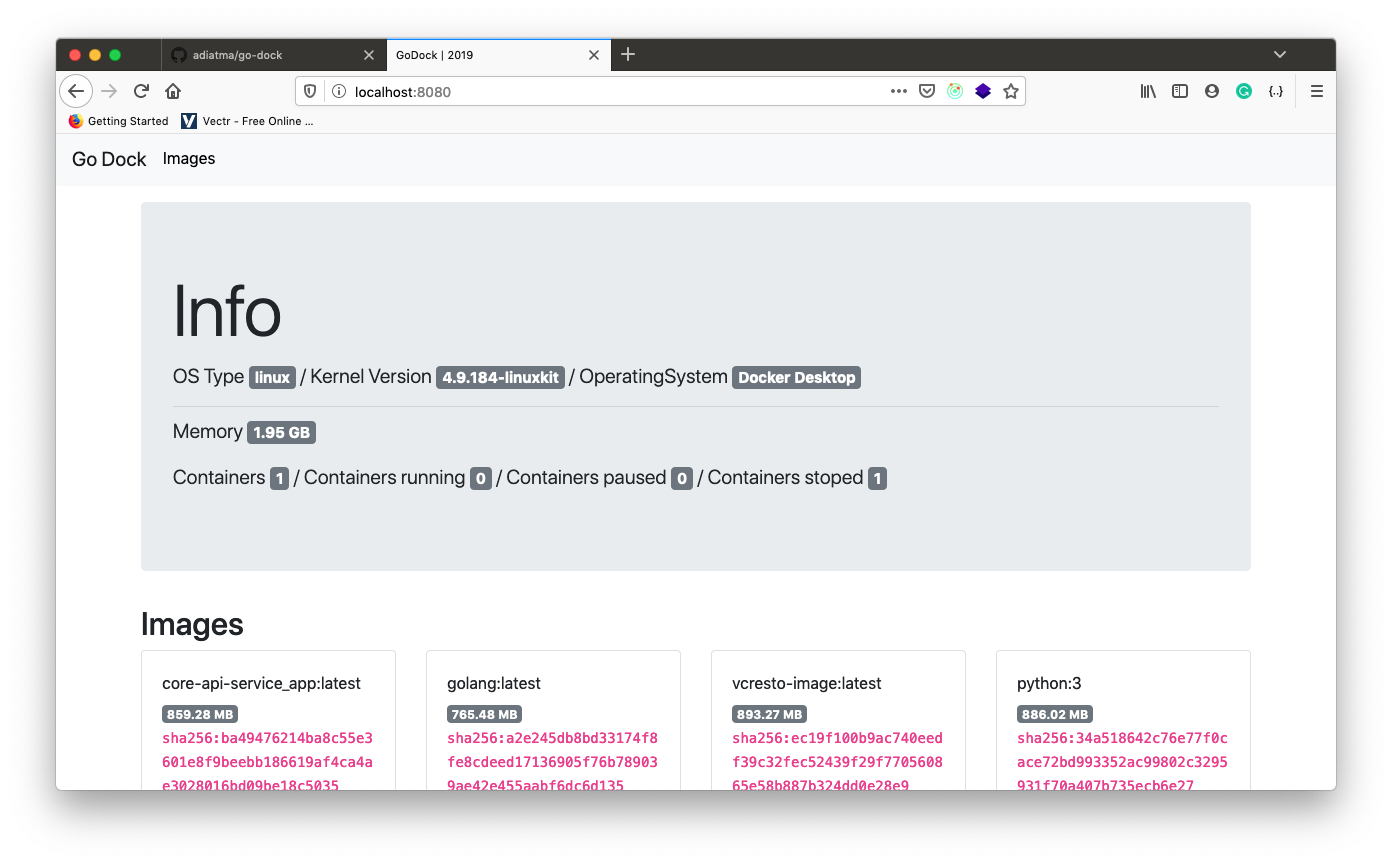
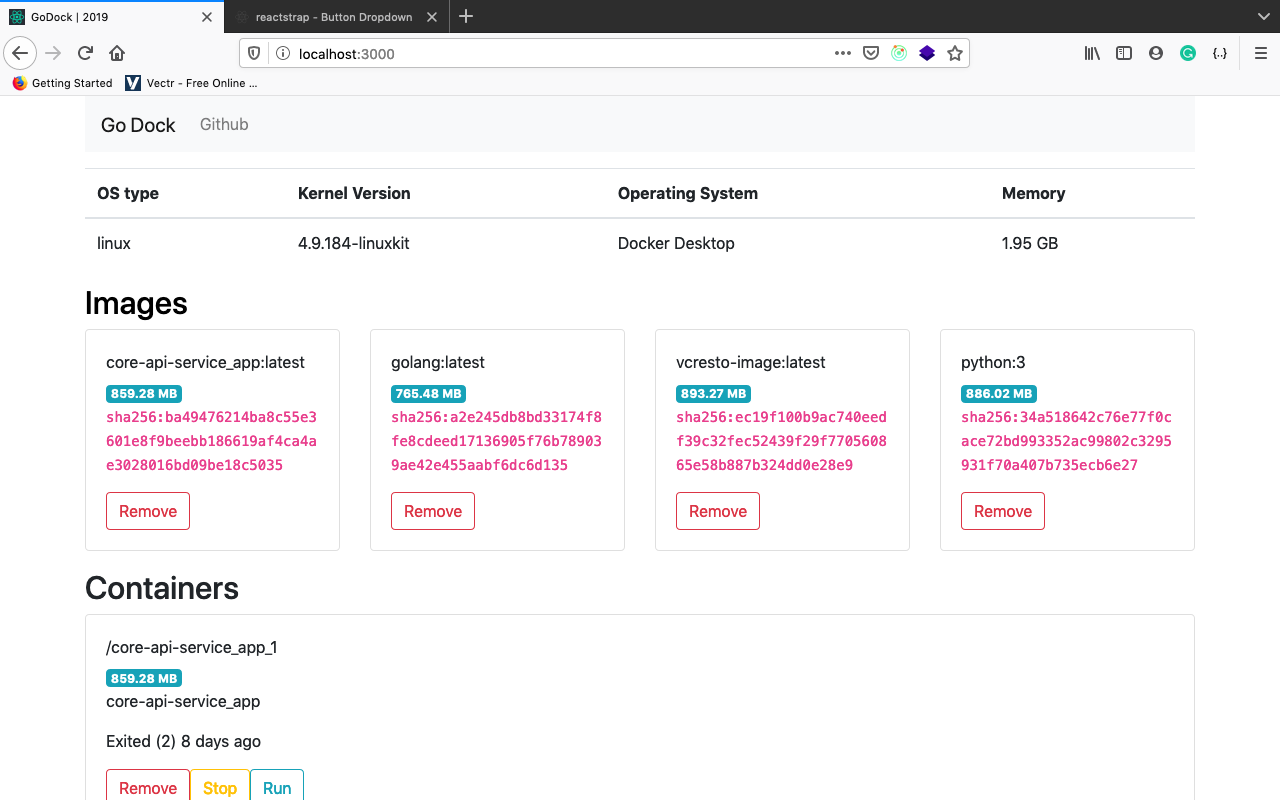
chore: improve ui

diff --git a/client/src/pages/Info.js b/client/src/pages/Info.js
@@ -8,7 +8,6 @@ import {
 } from 'easy-peasy'
 import {
   Container,
-  Jumbotron,
   Badge,
   Spinner,
   Card,
@@ -17,11 +16,14 @@ import {
   CardSubtitle,
   CardText,
   CardDeck,
+  Table,
+  Button
 } from 'reactstrap'
+import { Link } from 'react-router-dom'
 
 import formatBytes from '../utils'
 
-export default function Info(): React.Node {
+export default (): React.Node => {
   const dispatch: Dispatch<{}, Action<any>> = useStoreDispatch()
   const stateInfo = useStoreState(state => state.info.defaultState)
   const stateDiskUsage = useStoreState(
@@ -38,28 +40,7 @@ export default function Info(): React.Node {
 
   return (
     <Container>
-      <Jumbotron>
-        <h1 className="display-3">Info</h1>
-        <p className="lead">
-          OS Type <Badge>{stateInfo.info.OSType}</Badge> / Kernel
-          Version <Badge>{stateInfo.info.KernelVersion}</Badge> /
-          OperatingSystem{' '}
-          <Badge>{stateInfo.info.OperatingSystem}</Badge>
-        </p>
-        <hr className="my-2" />
-        <p className="lead">
-          Memory <Badge>{formatBytes(stateInfo.info.MemTotal)}</Badge>{' '}
-        </p>
-        <p className="lead">
-          Containers <Badge>{stateInfo.info.Containers}</Badge> /
-          Containers running{' '}
-          <Badge>{stateInfo.info.ContainersRunning}</Badge> /
-          Containers paused{' '}
-          <Badge>{stateInfo.info.ContainersPaused}</Badge> /
-          Containers stoped{' '}
-          <Badge>{stateInfo.info.ContainersStopped}</Badge>
-        </p>
-      </Jumbotron>
+      {stateInfo && <Info info={stateInfo.info} />}
       {stateDiskUsage.disk && (
         <DiskUsage
           images={stateDiskUsage.disk.Images}
@@ -67,6 +48,38 @@ export default function Info(): React.Node {
         />
       )}
     </Container>
+  )
+}
+
+type InfoProps = {
+  info: {
+    OSType: string,
+    KernelVersion: string,
+    OperatingSystem: String,
+    MemTotal: number,
+  },
+}
+
+function Info({info}: InfoProps): React.Node {
+  return (
+    <Table responsive>
+      <thead>
+        <tr>
+          <th>OS type</th>
+          <th>Kernel Version</th>
+          <th>Operating System</th>
+          <th>Memory</th>
+        </tr>
+      </thead>
+      <tbody>
+        <tr>
+          <td>{info.OSType}</td>
+          <td>{info.KernelVersion}</td>
+          <td>{info.OperatingSystem}</td>
+          <td>{formatBytes(info.MemTotal)}</td>
+        </tr>
+      </tbody>
+    </Table>
   )
 }
 
@@ -79,16 +92,19 @@ function DiskUsage({images, containers}: DiskUsageProps): React.Node {
   return (
     <>
       <div style={{marginBottom: '1rem'}}>
-        <h2>Images</h2>
+        <h2><Link to={`/images`} style={{ color: "black" }}>Images</Link></h2>
         <CardDeck>
           {images.map(image => (
             <Card key={image.Id}>
               <CardBody>
                 <CardTitle>{image.RepoTags}</CardTitle>
                 <CardSubtitle>
-                  <Badge>{formatBytes(image.Size)}</Badge>
+                  <Badge color="info">{formatBytes(image.Size)}</Badge>
                 </CardSubtitle>
-                <CardText><code>{image.Id}</code></CardText>
+                <CardText>
+                  <code>{image.Id}</code>
+                </CardText>
+                <Button outline color="danger">Remove</Button>
               </CardBody>
             </Card>
           ))}
@@ -100,12 +116,15 @@ function DiskUsage({images, containers}: DiskUsageProps): React.Node {
           {containers.map(container => (
             <Card key={container.Id}>
               <CardBody>
-                <CardTitle>{container.Names[0]}</CardTitle>
+                <CardTitle>{container.Names}</CardTitle>
                 <CardSubtitle>
-                  <Badge>{formatBytes(container.SizeRootFs)}</Badge>
+                  <Badge color="info">{formatBytes(container.SizeRootFs)}</Badge>
                 </CardSubtitle>
                 <CardText>{container.Image}</CardText>
                 <CardText>{container.Status}</CardText>
+                <Button outline color="danger">Remove</Button>
+                <Button outline color="warning">Stop</Button>
+                <Button outline color="info">Run</Button>
               </CardBody>
             </Card>
           ))}

diff --git a/client/src/components/TopNavigation.js b/client/src/components/TopNavigation.js
@@ -1,25 +1,39 @@
 // @flow
-import * as React from 'react';
-import { Navbar, NavbarBrand, NavbarToggler, Collapse, Nav, NavItem } from 'reactstrap';
-import { Link } from 'react-router-dom'
+import * as React from 'react'
+import {
+  Navbar,
+  NavbarBrand,
+  NavbarToggler,
+  Collapse,
+  Nav,
+  NavItem,
+  Container,
+  NavLink
+} from 'reactstrap'
 
 function TopNavigation(): React.Node {
   const [isOpen, setIsOpen] = React.useState(false)
   const toggle = () => setIsOpen(!isOpen)
 
   return (
-    <div style={{ marginBottom: "1rem" }}>
-      <Navbar color="light" light expand="md">
-        <NavbarBrand href="/">Go Dock</NavbarBrand>
-        <NavbarToggler onClick={toggle} />
-        <Collapse isOpen={isOpen} navbar>
-          <Nav className="mr-auto" navbar>
-            <NavItem>
-              <Link to={`/images`} style={{ textDecoration: 'none', color: 'black' }}>Images</Link>
-            </NavItem>
-          </Nav>
-        </Collapse>
-      </Navbar>
+    <div style={{marginBottom: '1rem'}}>
+      <Container>
+        <Navbar color="light" light expand="md">
+          <NavbarBrand href="/">Go Dock</NavbarBrand>
+          <NavbarToggler onClick={toggle} />
+          <Collapse isOpen={isOpen} navbar>
+            <Nav className="mr-auto" navbar>
+              <NavItem>
+                <NavLink
+                  href={`https://github.com/adiatma/go-dock`}
+                >
+                  Github
+                </NavLink>
+              </NavItem>
+            </Nav>
+          </Collapse>
+        </Navbar>
+      </Container>
     </div>
   )
 }
